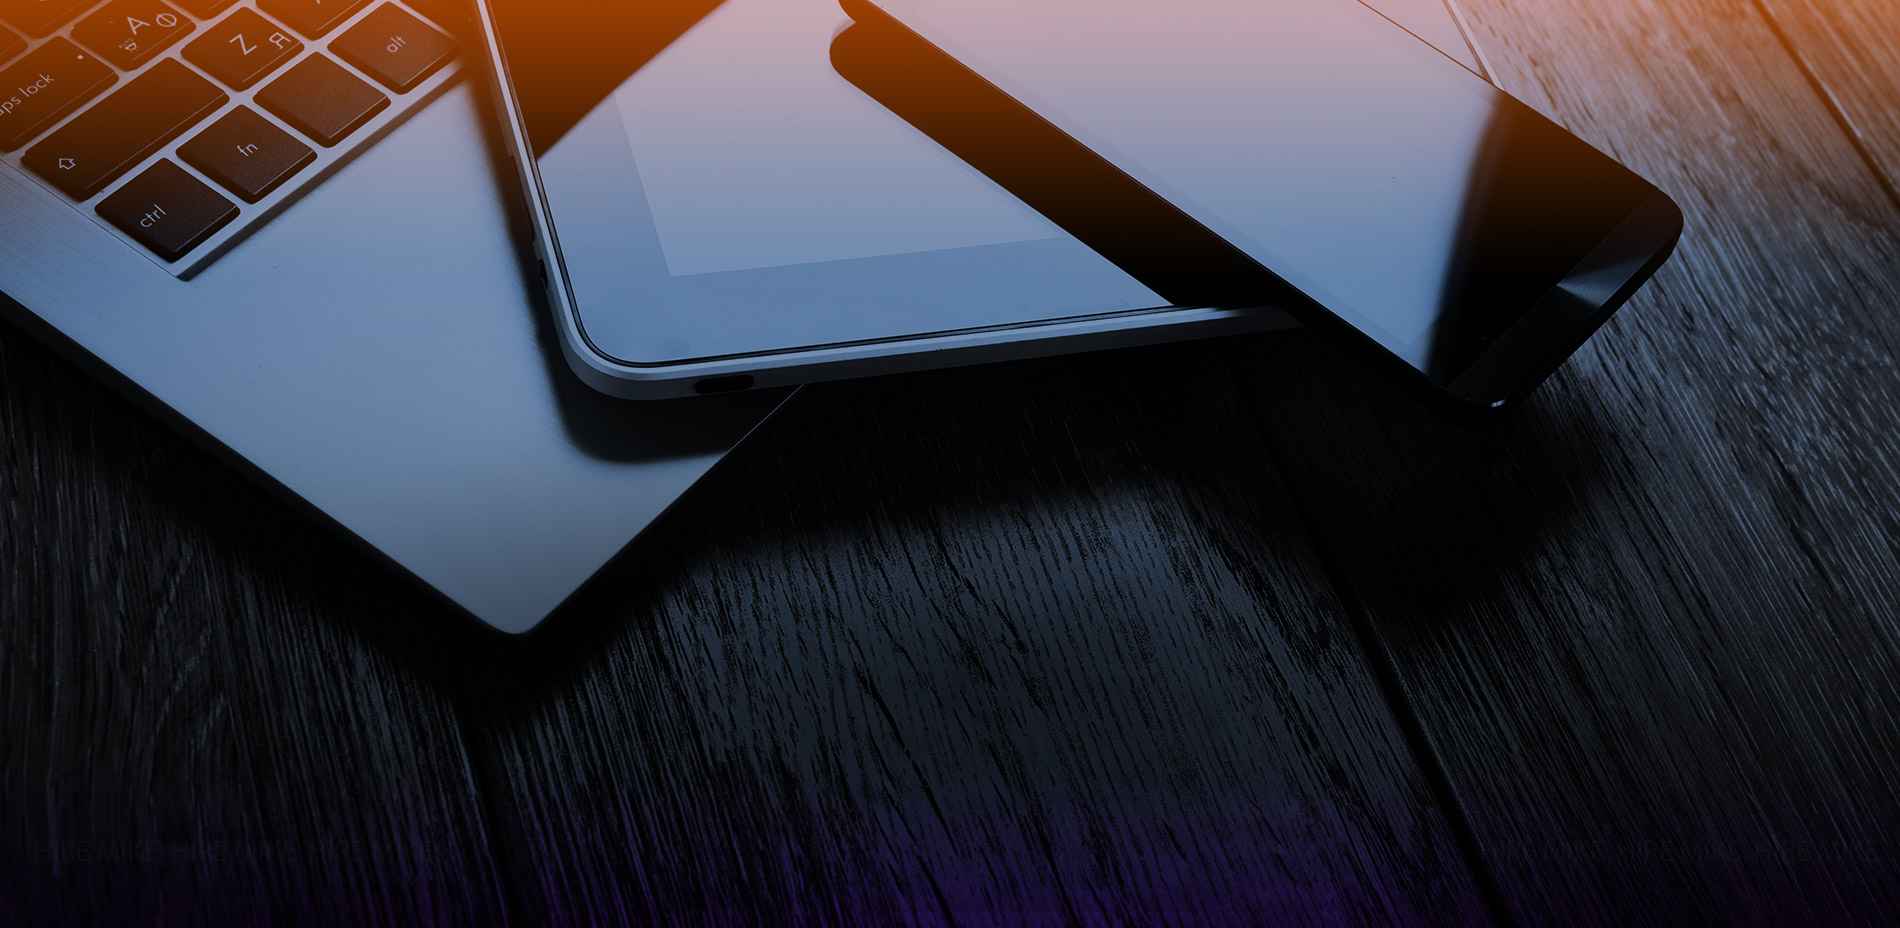
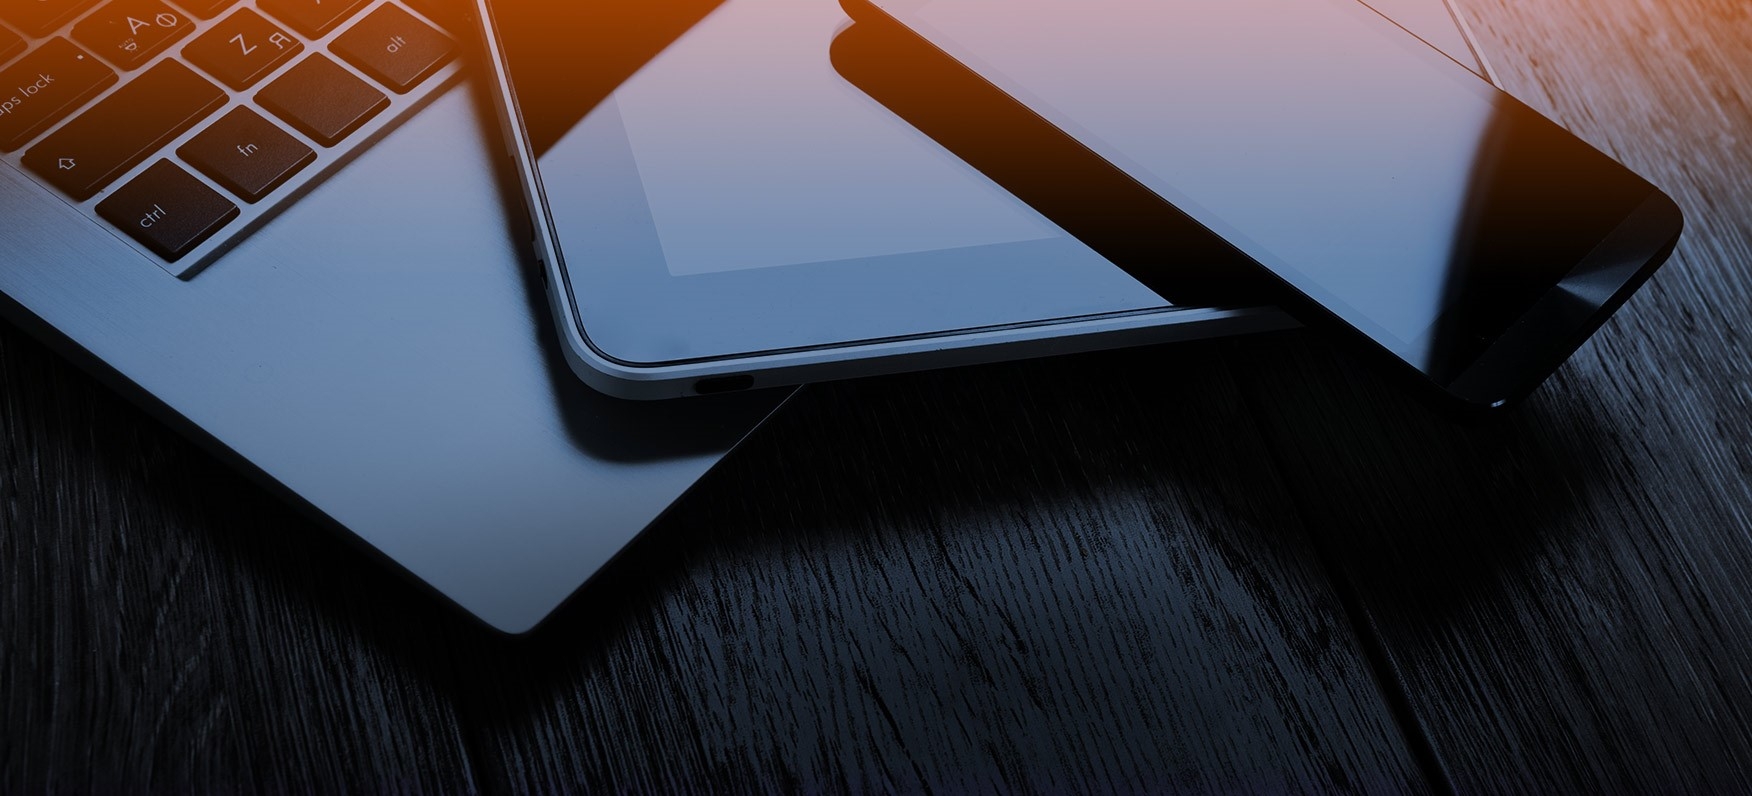
changed background size / media queries

diff --git a/main.css b/main.css
@@ -11,6 +11,7 @@ body {
 }
  #titleCont {
     background-image: url("./images/background.jpg");
+    background-size: cover;
     text-align: center;
     display:flex;
     justify-content:center;
@@ -203,7 +204,7 @@ a {
     font-size: 15px;
 }
 
-@media screen and (max-width: 400px){
+@media screen and (max-width: 414px){
     .titleBtns {
         font-size: 10px;
     }
